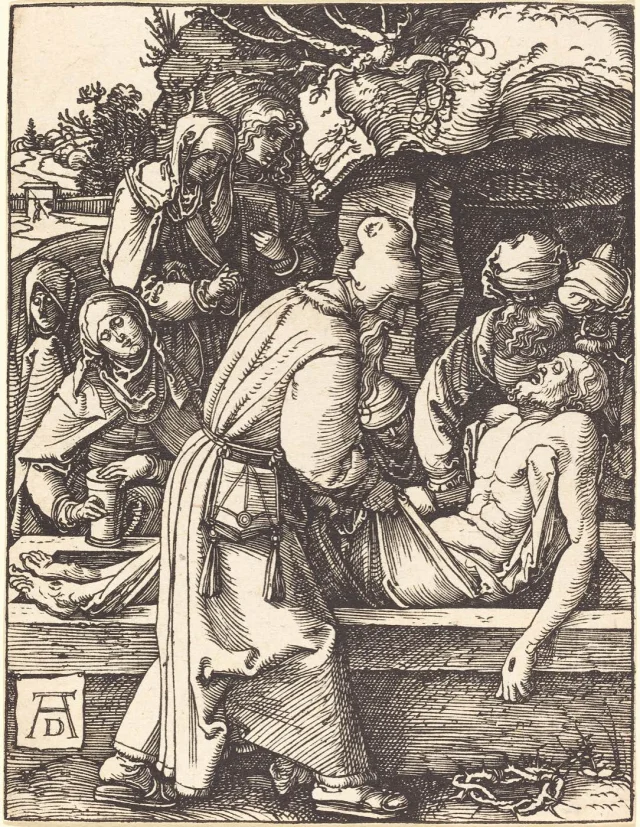
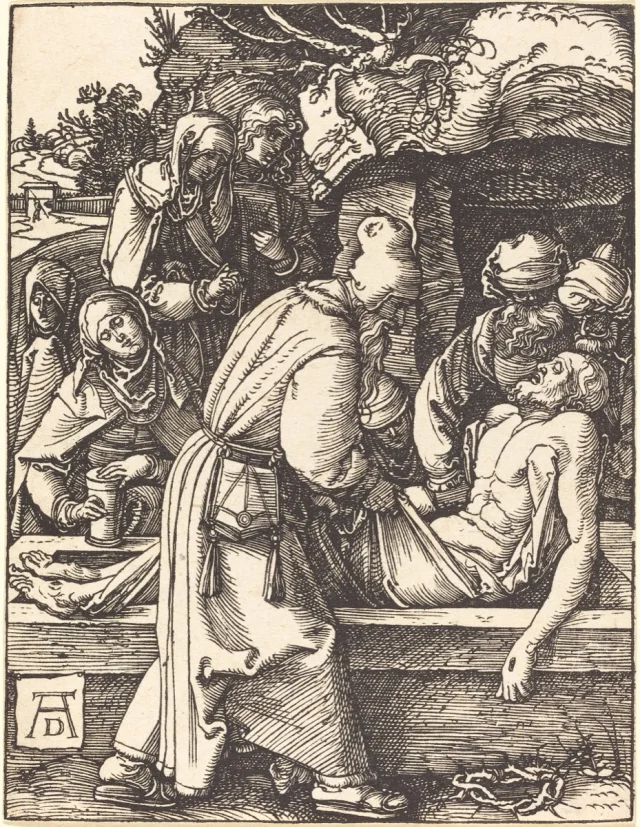
Merge the 1200px re-exports and the Death of the Virgin into the woodcut manifest

diff --git a/priv/static/images/woodcuts/MANIFEST.md b/priv/static/images/woodcuts/MANIFEST.md
@@ -9,15 +9,15 @@ Generated from manifest.json. Source and licence are on each plate's Commons pag
 | joyful_3 | [nativity-durer.jpg](nativity-durer.jpg) | [The Nativity](https://commons.wikimedia.org/wiki/File:Albrecht_D%C3%BCrer%2C_The_Nativity%2C_c._1502-1504%2C_NGA_6701.jpg) | Albrecht Durer | Life of the Virgin | c. 1504 | 855x1200 | 640 | CC0 |
 | joyful_4 | [presentation-durer.jpg](presentation-durer.jpg) | [The Presentation of Christ in the Temple](https://commons.wikimedia.org/wiki/File:Albrecht_D%C3%BCrer%2C_The_Presentation_of_Christ_in_the_Temple%2C_c._1504-1505%2C_NGA_6705.jpg) | Albrecht Durer | Life of the Virgin | c. 1504-1505 | 858x1200 | 640 | CC0 |
 | joyful_5 | [finding-temple-durer.jpg](finding-temple-durer.jpg) | [Christ among the Doctors](https://commons.wikimedia.org/wiki/File:Albrecht_D%C3%BCrer%2C_Christ_among_the_Doctors%2C_c._1503-1504%2C_NGA_6708.jpg) | Albrecht Durer | Life of the Virgin | c. 1503-1504 | 858x1200 | 640 | CC0 |
-| sorrowful_1 | [agony-garden-durer.jpg](agony-garden-durer.jpg) | [The Agony in the Garden](https://commons.wikimedia.org/wiki/File:Christ_on_the_Mount_of_Olives,_from_The_Large_Passion_MET_DP816593.jpg) | Albrecht Durer | Large Passion | c. 1497-1499 | 937x1300 | 640 | CC0 |
-| sorrowful_2 | [scourging-durer.jpg](scourging-durer.jpg) | [The Scourging at the Pillar](https://commons.wikimedia.org/wiki/File:The_Flagellation,_from_The_Large_Passion_MET_DP816589.jpg) | Albrecht Durer | Large Passion | c. 1497-1500 | 937x1300 | 640 | CC0 |
-| sorrowful_3 | [crowning-thorns-durer.jpg](crowning-thorns-durer.jpg) | [Christ Crowned with Thorns](https://commons.wikimedia.org/wiki/File:Christ_Crowned_with_Thorns,_from_The_Small_Passion_MET_DP816006.jpg) | Albrecht Durer | Small Passion | c. 1509 | 1000x1300 | 640 | CC0 |
-| sorrowful_4 | [carrying-cross-durer.jpg](carrying-cross-durer.jpg) | [Christ Carrying the Cross](https://commons.wikimedia.org/wiki/File:The_Bearing_of_the_Cross,_from_The_Large_Passion_MET_DP816602.jpg) | Albrecht Durer | Large Passion | c. 1498 | 946x1300 | 640 | CC0 |
+| sorrowful_1 | [agony-garden-durer.jpg](agony-garden-durer.jpg) | [The Agony in the Garden](https://commons.wikimedia.org/wiki/File:Christ_on_the_Mount_of_Olives,_from_The_Large_Passion_MET_DP816593.jpg) | Albrecht Durer | Large Passion | c. 1497-1499 | 865x1200 | 640 | CC0 |
+| sorrowful_2 | [scourging-durer.jpg](scourging-durer.jpg) | [The Scourging at the Pillar](https://commons.wikimedia.org/wiki/File:The_Flagellation,_from_The_Large_Passion_MET_DP816589.jpg) | Albrecht Durer | Large Passion | c. 1497-1500 | 865x1200 | 640 | CC0 |
+| sorrowful_3 | [crowning-thorns-durer.jpg](crowning-thorns-durer.jpg) | [Christ Crowned with Thorns](https://commons.wikimedia.org/wiki/File:Christ_Crowned_with_Thorns,_from_The_Small_Passion_MET_DP816006.jpg) | Albrecht Durer | Small Passion | c. 1509 | 923x1200 | 640 | CC0 |
+| sorrowful_4 | [carrying-cross-durer.jpg](carrying-cross-durer.jpg) | [Christ Carrying the Cross](https://commons.wikimedia.org/wiki/File:The_Bearing_of_the_Cross,_from_The_Large_Passion_MET_DP816602.jpg) | Albrecht Durer | Large Passion | c. 1498 | 874x1200 | 640 | CC0 |
 | sorrowful_5 | [crucifixion-durer.jpg](crucifixion-durer.jpg) | [The Crucifixion](https://commons.wikimedia.org/wiki/File:The_Crucifixion,_from_The_Small_Passion_MET_DP816039.jpg) | Albrecht Durer | Small Passion | c. 1509 | 800x1060 | 640 | CC0 |
 | glorious_1 | [resurrection-durer.jpg](resurrection-durer.jpg) | [The Resurrection](https://commons.wikimedia.org/wiki/File:The_Resurrection,_from_The_Large_Passion_MET_DP816615.jpg) | Albrecht Durer | Large Passion | 1510 | 800x1134 | 640 | CC0 |
-| glorious_2 | [ascension-durer.jpg](ascension-durer.jpg) | [The Ascension](https://commons.wikimedia.org/wiki/File:The_Ascension,_from_The_Small_Passion_MET_DP816019.jpg) | Albrecht Durer | Small Passion | c. 1510 | 1175x1500 | 640 | CC0 |
-| glorious_3 | [pentecost-durer.jpg](pentecost-durer.jpg) | [Pentecost](https://commons.wikimedia.org/wiki/File:Pentecost,_from_The_Small_Passion_MET_DP816020.jpg) | Albrecht Durer | Small Passion | c. 1510 | 1163x1500 | 640 | CC0 |
-| glorious_4 | [coronation-durer.jpg](coronation-durer.jpg) | [The Assumption and Coronation of the Virgin](https://commons.wikimedia.org/wiki/File:The_Assumption_and_Coronation_of_the_Virgin,_from_The_Life_of_the_Virgin_MET_DP816292.jpg) | Albrecht Durer | Life of the Virgin | 1510 | 800x1123 | 640 | CC0 |
+| glorious_2 | [ascension-durer.jpg](ascension-durer.jpg) | [The Ascension](https://commons.wikimedia.org/wiki/File:The_Ascension,_from_The_Small_Passion_MET_DP816019.jpg) | Albrecht Durer | Small Passion | c. 1510 | 940x1200 | 640 | CC0 |
+| glorious_3 | [pentecost-durer.jpg](pentecost-durer.jpg) | [Pentecost](https://commons.wikimedia.org/wiki/File:Pentecost,_from_The_Small_Passion_MET_DP816020.jpg) | Albrecht Durer | Small Passion | c. 1510 | 930x1200 | 640 | CC0 |
+| glorious_4 | [death-of-virgin-durer.jpg](death-of-virgin-durer.jpg) | [The Death of the Virgin](https://commons.wikimedia.org/wiki/File:The_Death_of_the_Virgin,_from_The_Life_of_the_Virgin_MET_DP816288.jpg) | Albrecht Durer | Life of the Virgin | 1510 | 855x1200 | 640 | CC0 |
 | glorious_5 | [coronation-durer.jpg](coronation-durer.jpg) | [The Assumption and Coronation of the Virgin](https://commons.wikimedia.org/wiki/File:The_Assumption_and_Coronation_of_the_Virgin,_from_The_Life_of_the_Virgin_MET_DP816292.jpg) | Albrecht Durer | Life of the Virgin | 1510 | 800x1123 | 640 | CC0 |
 | luminous_1 | [baptism-dore.jpg](baptism-dore.jpg) | [The Baptism of Jesus](https://commons.wikimedia.org/wiki/File:Gustave_Dore_-_John_the_Baptist_baptizes_Jesus.jpg) | Gustave Dore | La Grande Bible de Tours | 1866 | 800x1014 | 640 | Public domain |
 | luminous_2 | [cana-dore.jpg](cana-dore.jpg) | [The Marriage at Cana](https://commons.wikimedia.org/wiki/File:Marriage_at_Cana_engraving_by_Gustave_Dor%C3%A9.jpg) | Gustave Dore | La Grande Bible de Tours | 1866 | 771x1000 | 640 | Public domain |
@@ -25,17 +25,17 @@ Generated from manifest.json. Source and licence are on each plate's Commons pag
 | luminous_4 | [transfiguration-dore.jpg](transfiguration-dore.jpg) | [The Transfiguration](https://commons.wikimedia.org/wiki/File:Gustave_Dore_-_The_Transfiguration.jpg) | Gustave Dore | La Grande Bible de Tours | 1866 | 497x622 | none | Public domain |
 | luminous_5 | [last-supper-dore.jpg](last-supper-dore.jpg) | [The Last Supper](https://commons.wikimedia.org/wiki/File:Jesus_and_the_disciples_at_the_Last_Supper.jpg) | Gustave Dore | La Grande Bible de Tours | 1866 | 475x602 | none | Public domain |
 | seven_sorrows_1 | [presentation-durer.jpg](presentation-durer.jpg) | [The Presentation in the Temple (Simeon's prophecy)](https://commons.wikimedia.org/wiki/File:Albrecht_D%C3%BCrer%2C_The_Presentation_of_Christ_in_the_Temple%2C_c._1504-1505%2C_NGA_6705.jpg) | Albrecht Durer | Life of the Virgin | c. 1504-1505 | 858x1200 | 640 | CC0 |
-| seven_sorrows_2 | [flight-egypt-durer.jpg](flight-egypt-durer.jpg) | [The Flight into Egypt](https://commons.wikimedia.org/wiki/File:Albrecht_D%C3%BCrer%2C_The_Flight_into_Egypt%2C_c._1504%2C_NGA_6706.jpg) | Albrecht Durer | Life of the Virgin | c. 1503 | 998x1400 | 640 | CC0 |
+| seven_sorrows_2 | [flight-egypt-durer.jpg](flight-egypt-durer.jpg) | [The Flight into Egypt](https://commons.wikimedia.org/wiki/File:Albrecht_D%C3%BCrer%2C_The_Flight_into_Egypt%2C_c._1504%2C_NGA_6706.jpg) | Albrecht Durer | Life of the Virgin | c. 1504 | 856x1200 | 640 | CC0 |
 | seven_sorrows_3 | [finding-temple-durer.jpg](finding-temple-durer.jpg) | [Christ among the Doctors](https://commons.wikimedia.org/wiki/File:Albrecht_D%C3%BCrer%2C_Christ_among_the_Doctors%2C_c._1503-1504%2C_NGA_6708.jpg) | Albrecht Durer | Life of the Virgin | c. 1503-1504 | 858x1200 | 640 | CC0 |
-| seven_sorrows_4 | [carrying-cross-durer.jpg](carrying-cross-durer.jpg) | [The Bearing of the Cross](https://commons.wikimedia.org/wiki/File:The_Bearing_of_the_Cross%2C_from_The_Large_Passion_MET_DP816602.jpg) | Albrecht Durer | Large Passion | c. 1498-1499 | 946x1300 | 640 | CC0 |
+| seven_sorrows_4 | [carrying-cross-durer.jpg](carrying-cross-durer.jpg) | [The Bearing of the Cross](https://commons.wikimedia.org/wiki/File:The_Bearing_of_the_Cross%2C_from_The_Large_Passion_MET_DP816602.jpg) | Albrecht Durer | Large Passion | c. 1498-1499 | 874x1200 | 640 | CC0 |
 | seven_sorrows_5 | [crucifixion-durer.jpg](crucifixion-durer.jpg) | [The Crucifixion](https://commons.wikimedia.org/wiki/File:The_Crucifixion%2C_from_The_Small_Passion_MET_DP816039.jpg) | Albrecht Durer | Small Passion | c. 1509 | 800x1060 | 640 | CC0 |
 | seven_sorrows_6 | [lamentation-durer.jpg](lamentation-durer.jpg) | [The Lamentation](https://commons.wikimedia.org/wiki/File:The_Lamentation,_from_The_Small_Passion_MET_DP816047.jpg) | Albrecht Durer | Small Passion | c. 1509 | 800x1030 | 640 | CC0 |
-| seven_sorrows_7 | [entombment-durer.jpg](entombment-durer.jpg) | [The Entombment](https://commons.wikimedia.org/wiki/File:Albrecht_D%C3%BCrer%2C_The_Deposition%2C_probably_c._1509-1510%2C_NGA_6778.jpg) | Albrecht Durer | Small Passion | c. 1509-1510 | 1084x1400 | 640 | CC0 |
-| general_holy_family_dragonfly | [holy-family-dragonfly-durer.jpg](holy-family-dragonfly-durer.jpg) | [The Holy Family with the Dragonfly](https://commons.wikimedia.org/wiki/File:Holy_Family_with_a_Dragonfly_MET_DP815298.jpg) | Albrecht Durer | Engravings of the Virgin | c. 1495 | 1088x1400 | 640 | CC0 |
-| general_holy_family_egypt | [holy-family-egypt-durer.jpg](holy-family-egypt-durer.jpg) | [The Holy Family in Egypt](https://commons.wikimedia.org/wiki/File:Albrecht_D%C3%BCrer%2C_Sojourn_of_the_Holy_Family_in_Egypt%2C_c._1504%2C_NGA_6707.jpg) | Albrecht Durer | Life of the Virgin | c. 1504 | 992x1400 | 640 | CC0 |
+| seven_sorrows_7 | [entombment-durer.jpg](entombment-durer.jpg) | [The Entombment](https://commons.wikimedia.org/wiki/File:Albrecht_D%C3%BCrer%2C_The_Deposition%2C_probably_c._1509-1510%2C_NGA_6778.jpg) | Albrecht Durer | Small Passion | c. 1509-1510 | 929x1200 | 640 | CC0 |
+| general_holy_family_dragonfly | [holy-family-dragonfly-durer.jpg](holy-family-dragonfly-durer.jpg) | [The Holy Family with the Dragonfly](https://commons.wikimedia.org/wiki/File:Holy_Family_with_a_Dragonfly_MET_DP815298.jpg) | Albrecht Durer | Single-sheet engraving | c. 1495 | 932x1200 | 640 | CC0 |
+| general_holy_family_egypt | [holy-family-egypt-durer.jpg](holy-family-egypt-durer.jpg) | [The Holy Family in Egypt](https://commons.wikimedia.org/wiki/File:Albrecht_D%C3%BCrer%2C_Sojourn_of_the_Holy_Family_in_Egypt%2C_c._1504%2C_NGA_6707.jpg) | Albrecht Durer | Life of the Virgin | c. 1504 | 851x1200 | 640 | CC0 |
 | general_madonna_crescent | [madonna-crescent-durer.jpg](madonna-crescent-durer.jpg) | [The Madonna on the Crescent](https://commons.wikimedia.org/wiki/File:The_Madonna_on_the_Crescent,_Frontispiece_to_The_Life_of_the_Virgin_MET_DP816150.jpg) | Albrecht Durer | Life of the Virgin (title page) | c. 1511 | 800x1159 | 640 | CC0 |
 | general_madonna_crescent_crop | [madonna-crescent-crop.jpg](madonna-crescent-crop.jpg) | [The Madonna on the Crescent (detail)](https://commons.wikimedia.org/wiki/File:The_Madonna_on_the_Crescent,_Frontispiece_to_The_Life_of_the_Virgin_MET_DP816150.jpg) | Albrecht Durer | Life of the Virgin (title page) | c. 1511 | 540x508 | none | CC0 |
-| general_madonna_monkey | [madonna-monkey-durer.jpg](madonna-monkey-durer.jpg) | [The Virgin and Child with the Monkey](https://commons.wikimedia.org/wiki/File:Albrecht_D%C3%BCrer%2C_The_Virgin_and_Child_with_the_Monkey%2C_c._1498%2C_NGA_35104.jpg) | Albrecht Durer | Engravings of the Virgin | c. 1498 | 907x1400 | 640 | CC0 |
+| general_madonna_monkey | [madonna-monkey-durer.jpg](madonna-monkey-durer.jpg) | [The Virgin and Child with the Monkey](https://commons.wikimedia.org/wiki/File:Albrecht_D%C3%BCrer%2C_The_Virgin_and_Child_with_the_Monkey%2C_c._1498%2C_NGA_35104.jpg) | Albrecht Durer | Single-sheet engraving | c. 1498 | 778x1200 | 640 | CC0 |
 
 ## Missing
 
@@ -43,9 +43,10 @@ None.
 
 ## Notes
 
-- A file may serve more than one key when one print shows both scenes: the Assumption and Coronation of the Virgin serves glorious_4 and glorious_5, and the Seven Sorrows reuse the Presentation (1), the Finding in the Temple (3), the Bearing of the Cross (4) and the Crucifixion (5).
+- A file may serve more than one key when one print shows both scenes: the Seven Sorrows reuse the Presentation (1), the Finding in the Temple (3), the Bearing of the Cross (4) and the Crucifixion (5).
+- glorious_4 is the Death of the Virgin from the Life of the Virgin: the series has no separate Assumption, whose print is shared with the Coronation (glorious_5).
 - Where two fragments gave the same key, existing.json wins, then fragments in file-name order.
 
 ## Duplicate candidates
 
-- seven_sorrows_6: kept lamentation-durer.jpg over lamentation-durer.jpg
+None.

diff --git a/docs/WOODCUTS.md b/docs/WOODCUTS.md
@@ -14,6 +14,8 @@ with its source and licence.
   No other site, however free it says it is.
 - Never overwrite an existing plate. A better scan of a covered mystery
   gets a new file name, and the manifest entry moves to it.
+- One file may serve two keys when one print shows both scenes (the
+  Seven Sorrows reuse several Joyful and Sorrowful plates).
 
 ## Adding a plate
 
@@ -24,11 +26,12 @@ with its source and licence.
 2. Download it outside the repo and look at it: the right scene, the whole
    composition, no watermark, no colour tint (make a sepia scan grayscale),
    no figures cropped.
-3. Resize: long side 1600px at most, JPEG quality about 80, under about
-   450KB.
+3. Resize: long side 1200px, JPEG quality 75, up to about 550KB. Lower
+   the quality a little if needed, but open the result at full size: no
+   blocking, no smeared hatching.
 
    ```
-   sips -Z 1600 -s format jpeg -s formatOptions 80 in.jpg --out out.jpg
+   sips -Z 1200 -s format jpeg -s formatOptions 75 in.jpg --out out.jpg
    ```
 
 4. Save it as `priv/static/images/woodcuts/<scene>-<artist>.jpg`, lowercase
